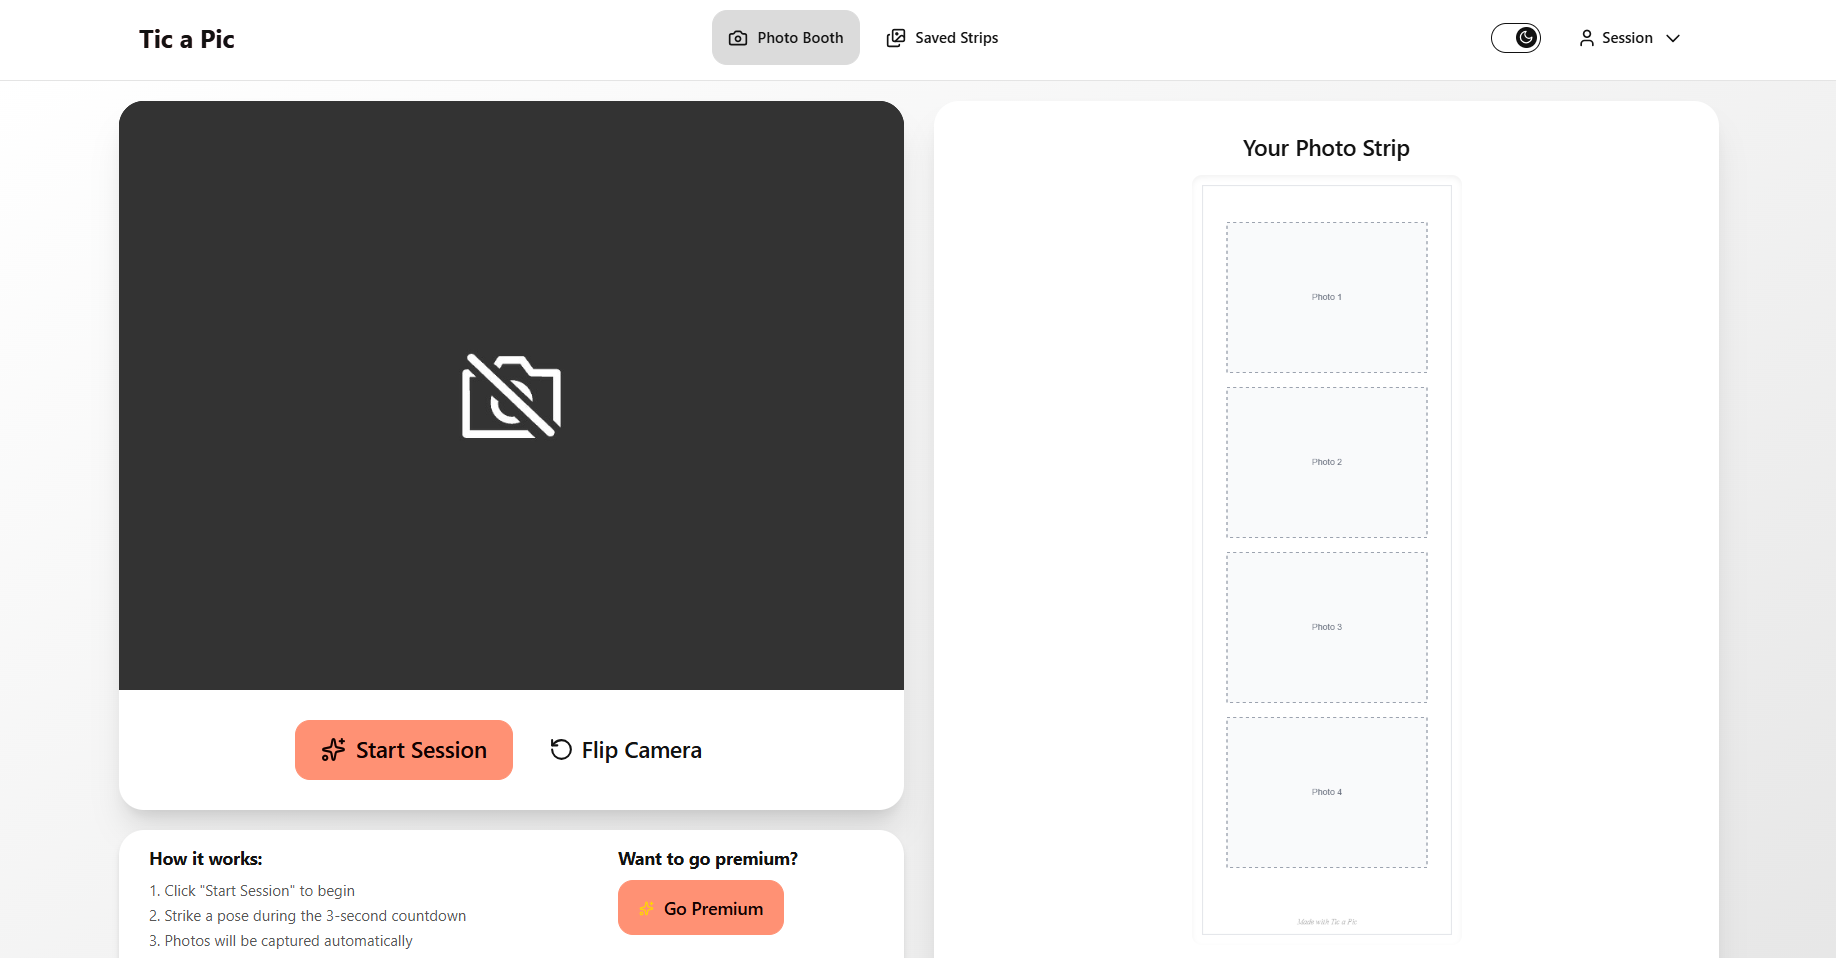
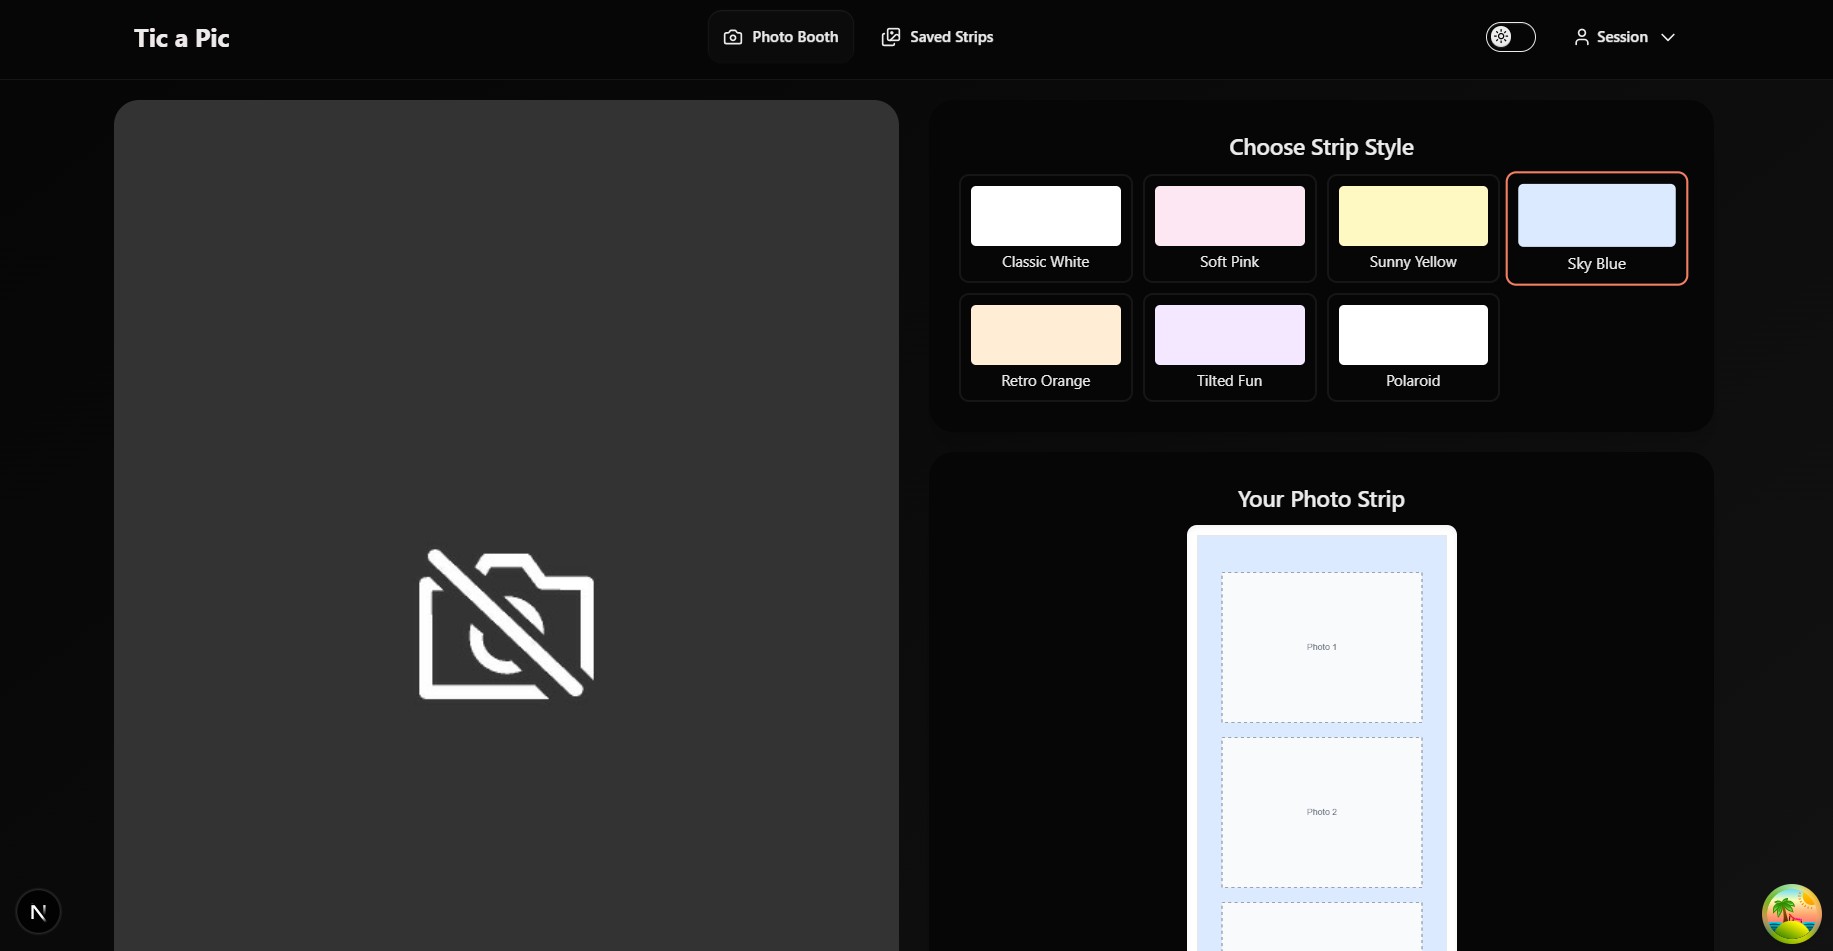
add project categories and badges to ProjectCard and ProjectModal components

diff --git a/components/Hero.tsx b/components/Hero.tsx
@@ -68,25 +68,93 @@ export const Hero: React.FC<HeroProps> = ({ accentColor }) => {
               <motion.div
                 animate={{ y: [0, -5, 0] }}
                 transition={{ repeat: Infinity, duration: 2, ease: "easeInOut" }}
-                className="size-80 rounded-full border-4 border-primary dark:border-primary shadow-2xl overflow-hidden relative group pointer-events-none select-none"
-                style={{ boxShadow: `0px 0px 50px 0px ${currentAccent}c4` }}>
-                <div className="absolute inset-0 bg-accent animate-pulse" />
-                <img
-                  src="/other/mypic.JPG"
-                  alt="Eli"
-                  draggable="false"
-                  className="w-full h-full object-cover relative z-10 transform group-hover:scale-110 transition-transform duration-500"
-                />
+                className="relative w-80 h-80"
+              >
+                {/* Corner brackets frame */}
+                <div className="absolute inset-0 border-2 border-primary/60 rounded-lg" style={{ boxShadow: `0px 0px 30px 0px ${currentAccent}40, inset 0px 0px 20px 0px ${currentAccent}20` }}>
+                  {/* Top-left bracket */}
+                  <div className="absolute -top-1 -left-1 w-8 h-8 border-l-2 border-t-2 border-primary" />
+                  <div className="absolute -top-1 -left-1 w-3 h-3 bg-primary/60" />
+                  {/* Top-right bracket */}
+                  <div className="absolute -top-1 -right-1 w-8 h-8 border-r-2 border-t-2 border-primary" />
+                  <div className="absolute -top-1 -right-1 w-3 h-3 bg-primary/60" />
+                  {/* Bottom-left bracket */}
+                  <div className="absolute -bottom-1 -left-1 w-8 h-8 border-l-2 border-b-2 border-primary" />
+                  <div className="absolute -bottom-1 -left-1 w-3 h-3 bg-primary/60" />
+                  {/* Bottom-right bracket */}
+                  <div className="absolute -bottom-1 -right-1 w-8 h-8 border-r-2 border-b-2 border-primary" />
+                  <div className="absolute -bottom-1 -right-1 w-3 h-3 bg-primary/60" />
+                </div>
+
+                {/* Inner glow ring */}
+                <div className="absolute inset-1 rounded-lg border border-primary/30 animate-pulse" style={{ boxShadow: `0px 0px 15px 0px ${currentAccent}60` }} />
+
+                {/* Scanlines overlay */}
+                <div className="absolute inset-0 bg-[linear-gradient(transparent_50%,rgba(0,255,0,0.03)_50%)] bg-size-[100%_4px] pointer-events-none z-20" />
+                <div className="absolute inset-0 bg-linear-to-b from-transparent via-transparent to-black/30 pointer-events-none z-20" />
+
+                {/* Image container with chromatic aberration */}
+                <div className="absolute inset-2 rounded overflow-hidden">
+                  {/* RGB split layers */}
+                  <div className="absolute inset-0 bg-primary/20 mix-blend-screen opacity-0 group-hover:opacity-100 transition-opacity">
+                    <img
+                      src="/other/mypic.JPG"
+                      alt="Eli"
+                      draggable="false"
+                      className="w-full h-full object-cover blur-[2px] translate-x-0.5"
+                    />
+                  </div>
+                  <img
+                    src="/other/mypic.JPG"
+                    alt="Eli"
+                    draggable="false"
+                    className="w-full h-full object-cover transform group-hover:scale-110 transition-transform duration-500"
+                  />
+                </div>
+
+                {/* Glitch effect lines */}
+                <div className="absolute inset-0 pointer-events-none z-30 opacity-0 group-hover:opacity-100">
+                  <div className="absolute top-1/4 left-0 w-full h-0.5 bg-primary/50 animate-pulse" style={{ animationDuration: '0.5s' }} />
+                  <div className="absolute top-1/2 left-0 w-full h-px bg-primary/30 animate-pulse" style={{ animationDuration: '0.7s' }} />
+                  <div className="absolute top-3/4 left-0 w-full h-0.5 bg-primary/50 animate-pulse" style={{ animationDuration: '0.6s' }} />
+                </div>
               </motion.div>
 
+              {/* Drag indicator */}
               <motion.div
-                className="absolute bottom-6 right-6 bg-primary text-primary-foreground px-3 py-1.5 rounded-full text-xs font-bold flex items-center gap-1.5 shadow-lg z-20 pointer-events-none"
-                animate={{ y: [0, -5, 0] }}
+                className="absolute -bottom-2 right-0 bg-primary/80 text-primary-foreground px-2 py-1 rounded text-xs font-bold flex items-center gap-1 z-30"
+                animate={{ y: [0, -3, 0] }}
                 transition={{ repeat: Infinity, duration: 2, ease: "easeInOut" }}
               >
-                <Move size={12} />
-                <span>Drag me</span>
+                <Move size={10} />
+                <span>DRAG ME</span>
               </motion.div>
+
+              {/* Corner tech accents */}
+              <div className="absolute -top-3 -left-3 text-primary/60">
+                <svg width="20" height="20" viewBox="0 0 20 20" fill="none">
+                  <path d="M0 10h10M10 0v10" stroke="currentColor" strokeWidth="2" />
+                  <circle cx="10" cy="10" r="2" fill="currentColor" />
+                </svg>
+              </div>
+              <div className="absolute -top-3 -right-3 text-primary/60">
+                <svg width="20" height="20" viewBox="0 0 20 20" fill="none">
+                  <path d="M20 10h-10M10 0v10" stroke="currentColor" strokeWidth="2" />
+                  <circle cx="10" cy="10" r="2" fill="currentColor" />
+                </svg>
+              </div>
+              <div className="absolute -bottom-3 -left-3 text-primary/60">
+                <svg width="20" height="20" viewBox="0 0 20 20" fill="none">
+                  <path d="M0 10h10M10 10v10" stroke="currentColor" strokeWidth="2" />
+                  <circle cx="10" cy="10" r="2" fill="currentColor" />
+                </svg>
+              </div>
+              <div className="absolute -bottom-3 -right-3 text-primary/60">
+                <svg width="20" height="20" viewBox="0 0 20 20" fill="none">
+                  <path d="M20 10h-10M10 10v10" stroke="currentColor" strokeWidth="2" />
+                  <circle cx="10" cy="10" r="2" fill="currentColor" />
+                </svg>
+              </div>
             </motion.div>
 
             <div className='flex-1/2 items-center justify-center relative z-20 text-left'>

diff --git a/constants.tsx b/constants.tsx
@@ -1,5 +1,12 @@
 import { AccentColor, ExperienceItem, ProjectItem, SkillItem } from './types';
 
+export const category = {
+  FREELANCE: "Freelance",
+  ACADEMIC: "Academic Project",
+  PERSONAL: "Personal Project",
+  CAPSTONE: "Capstone Project"
+}
+
 export const ACCENT_COLORS: AccentColor[] = [
   { name: 'green', value: '#2da44e' },
   { name: 'blue', value: '#2563eb' },
@@ -62,44 +69,85 @@ export const PROJECT_DATA: ProjectItem[] = [
     id: 1,
     title: "STC Performing Arts Center Website",
     description: "Built a centralized management platform using Tanstack Start, replacing manual scheduling with a digital system for classes, coaches, and studio rentals. Enabled secure, automated transactions by integrating PayMongo, and designed an administrative dashboard.",
-    techStack: ["Tanstack Start", "React", "PayMongo", "TypeScript", "Tailwind CSS", "Shadcn UI", "Supabase"],
+    techStack: ["Tanstack Start", "React", "PayMongo", "TypeScript", "Tailwind CSS", "Shadcn UI", "Supabase", "Agile Development"],
     image: "/projects/stc.png",
     repoLink: "",
-    demoLink: "https://stcpacv3.vercel.app/"
+    demoLink: "https://stcpacv3.vercel.app/",
+    category: category.FREELANCE
   },
   {
     id: 2,
     title: "BulSU OSAS Complaint and Grievance Portal",
     description: "Enabled administrators to monitor, categorize, and resolve student concerns in real time. Improved operational efficiency by digitizing submissions and centralizing records using ReactJS. Leveraged GitHub for version control.",
-    techStack: ["React.js", "TypeScript", "Tailwind CSS", "DaisyUI", "Express.js", "Supabase"],
+    techStack: ["React.js", "TypeScript", "Tailwind CSS", "DaisyUI", "Express.js", "Supabase", "Agile Development"],
     image: "/projects/osas.png",
     repoLink: "",
-    demoLink: "https://www.osascomplaints.dev/"
+    demoLink: "https://www.osascomplaints.dev/",
+    category: category.CAPSTONE
   },
   {
     id: 3,
+    title: "COBOL Files",
+    description: "My files from Z/OS Mainframe Developer Course and IBM Z Xplore hands-on labs.",
+    techStack: ["COBOL", "JCL", "IBM Z Xplore", "z/OS", "Mainframe", "ISPF", "RACF", "Zowe CLI", "VSAM", "TSO"],
+    image: "/projects/zos.png",
+    repoLink: "https://github.com/elli1216/ds-jcl-cbl-files",
+    category: category.PERSONAL
+  },
+  {
+    id: 4,
     title: "Tic-a-Pic Photobooth",
     description: "Developed an interactive web-based photobooth using NextJS to provide users with a fun, seamless, and engaging digital photography experience.",
     techStack: ["Next.js", "DaisyUI"],
     image: "/projects/ticapic.png",
     repoLink: "https://github.com/elli1216/Tic-a-Pic",
-    demoLink: "https://tic-a-pic.vercel.app/"
+    demoLink: "https://tic-a-pic.vercel.app/",
+    category: category.PERSONAL
   },
   {
-    id: 4,
+    id: 5,
     title: "Jobinator",
     description: "A simple CRUD job application tracker that streamlines the job search process by organizing applications, statuses, and notes in a centralized dashboard.",
     techStack: ["Tanstack Start", "Prisma", "Neon", "Netlify", "Clerk", "Shadcn UI"],
     image: "/projects/jobinator.png",
     repoLink: "https://github.com/elli1216/Jobinator",
+    category: category.PERSONAL
   },
   {
-    id: 4,
+    id: 6,
     title: "My Own Portfolio",
     description: "A portfolio website built with Motion and ReactBits components that you are viewing right now. Showcases my skills and projects as well as my social media accounts.",
     techStack: ["React", "TypeScript", "Motion React", "ReactBits"],
     image: "/projects/portfolio.png",
     repoLink: "https://github.com/elli1216/eli",
+    category: category.PERSONAL
+  },
+  {
+    id: 7,
+    title: "Scroll Report",
+    description: "A project I practiced with Next.js using the News API for the data.",
+    techStack: ["Next.js", "News API", "Tanstack React Query", "TypeScript"],
+    image: "https://placehold.co/800/black/white?text=Scroll+Report&font=playfair-display",
+    repoLink: "https://github.com/elli1216/Scroll-Report",
+    category: category.PERSONAL
+  },
+  {
+    id: 8,
+    title: "ByteBazaar",
+    description: "A final project presented during my 3rd year, 1st Semester in Web Systems and Technologies (1). A full-stack e-commerce application built with React (TypeScript) frontend and Express.js backend, featuring Firebase authentication and XML-based data storage.",
+    techStack: ["React", "Node.js", "Express.js", "XML", "Firebase", "TypeScript"],
+    image: "/projects/bytebazaar.png",
+    repoLink: "https://github.com/elli1216/Bytebazaar",
+    category: category.ACADEMIC
+  },
+  {
+    id: 9,
+    title: "Student Management System",
+    description: "A final project presented during my 2nd year, 2nd Semester in Advanced Programming. A school management system designed in Java with MVC Framework. Features included Student, Faculty, and Admin Dashboards. Check the repository for more details.",
+    techStack: ["Java", "Java Swing", "JDBC", "MVC Framework", "SQL Server", "Agile Development"],
+    image: "/projects/sms.png",
+    repoLink: "https://github.com/elli1216/School-Enrollment-System",
+    category: category.ACADEMIC
   },
 ];
 

diff --git a/components/Projects.tsx b/components/Projects.tsx
@@ -4,8 +4,22 @@ import { PROJECT_DATA } from '../constants';
 import { ProjectItem } from '../types';
 import { Github, ExternalLink, X } from 'lucide-react';
 import { motion, AnimatePresence } from 'framer-motion';
+import { category } from '../constants';
 
 const ProjectCard: React.FC<{ project: ProjectItem; index: number; onClick: () => void }> = ({ project, index, onClick }) => {
+  const getBadgeStyles = (Category: typeof category[keyof typeof category]) => {
+    switch (Category) {
+      case category.ACADEMIC:
+        return 'bg-purple-500/20 text-purple-500 border-purple-500/30';
+      case category.FREELANCE:
+        return 'bg-blue-500/20 text-blue-300 border-blue-500/30';
+      case category.CAPSTONE:
+        return 'bg-orange-500/20 text-orange-300 border-orange-500/30';
+      default:
+        return 'bg-primary/20 text-primary border-primary/30';
+    }
+  };
+
   return (
     <motion.div
       initial={{ opacity: 0, y: 20 }}
@@ -20,6 +34,13 @@ const ProjectCard: React.FC<{ project: ProjectItem; index: number; onClick: () =
         alt={project.title}
         className="w-full h-full object-cover transition-transform duration-500 group-hover:scale-110"
       />
+
+      {/* Badge */}
+      {project.category && (
+        <span className={`absolute top-3 left-3 px-2 py-1 text-xs font-medium rounded-full border ${getBadgeStyles(project.category)} z-10`}>
+          {project.category}
+        </span>
+      )}
 
       {/* Overlay Title */}
       <div className="absolute inset-0 bg-linear-to-t from-black/80 via-black/20 to-transparent opacity-0 group-hover:opacity-100 transition-opacity duration-300 flex items-end p-6">
@@ -117,9 +138,16 @@ const ProjectModal: React.FC<{ project: ProjectItem; onClose: () => void }> = ({
                     ))}
                   </div>
 
-                  <h2 className="text-3xl md:text-4xl font-bold mb-4 text-foreground">
-                    {project.title}
-                  </h2>
+                  <div className="flex items-center gap-3 mb-4">
+                    <h2 className="text-3xl md:text-4xl font-bold text-foreground">
+                      {project.title}
+                    </h2>
+                    {project.category && (
+                      <span className="px-2 py-1 text-xs font-medium rounded-full bg-primary/20 text-primary border border-primary/30">
+                        {project.category}
+                      </span>
+                    )}
+                  </div>
 
                   <div className="max-w-3xl text-muted-foreground">
                     <p className="text-base md:text-lg leading-relaxed">
@@ -136,7 +164,7 @@ const ProjectModal: React.FC<{ project: ProjectItem; onClose: () => void }> = ({
                       rel="noopener noreferrer"
                       className="flex items-center justify-center gap-2 px-6 py-3 rounded-xl bg-primary text-primary-foreground hover:bg-primary/90 transition-all font-bold text-sm shadow-lg shadow-primary/20"
                     >
-                      <ExternalLink size={18} /> Live Demo
+                      <ExternalLink size={18} /> Live Site
                     </a>
                   )}
                   {project.repoLink && (
@@ -146,7 +174,7 @@ const ProjectModal: React.FC<{ project: ProjectItem; onClose: () => void }> = ({
                       rel="noopener noreferrer"
                       className="flex items-center justify-center gap-2 px-6 py-3 rounded-xl bg-accent hover:bg-accent/80 text-foreground transition-all font-bold text-sm border border-border"
                     >
-                      <Github size={18} /> Source Code
+                      <Github size={18} /> Repository
                     </a>
                   )}
                 </div>

diff --git a/types.ts b/types.ts
@@ -1,3 +1,5 @@
+import { category } from "./constants";
+
 export interface AccentColor {
   name: string;
   value: string;
@@ -26,6 +28,7 @@ export interface ProjectItem {
   image: string;
   repoLink?: string;
   demoLink?: string;
+  category?: typeof category[keyof typeof category];
 }
 
 export interface SkillItem {
